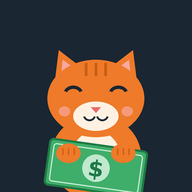
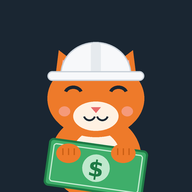
Ícono: gato con casco blanco de construcción
Claude-Session: https://claude.ai/code/session_01PNB7dGvT8uKygLViJYRoUu

Changed region(s): [[0.2188, 0.2188, 0.7812, 0.4375]]

diff --git a/sw.js b/sw.js
@@ -1,4 +1,4 @@
-const C='caja-chica-v10';
+const C='caja-chica-v10b';
 const SHELL=['./','index.html','manifest.webmanifest','icon-gato-192.png','icon-gato-512.png','exceljs.min.js','ocr/tesseract.min.js','ocr/worker.min.js','ocr/tesseract-core-simd-lstm.wasm.js','ocr/tesseract-core-lstm.wasm.js','ocr/spa.traineddata.gz'];
 self.addEventListener('install',e=>{e.waitUntil(caches.open(C).then(c=>c.addAll(SHELL)).then(()=>self.skipWaiting()));});
 self.addEventListener('activate',e=>{e.waitUntil(caches.keys().then(k=>Promise.all(k.filter(x=>x!==C).map(x=>caches.delete(x)))).then(()=>self.clients.claim()));});
